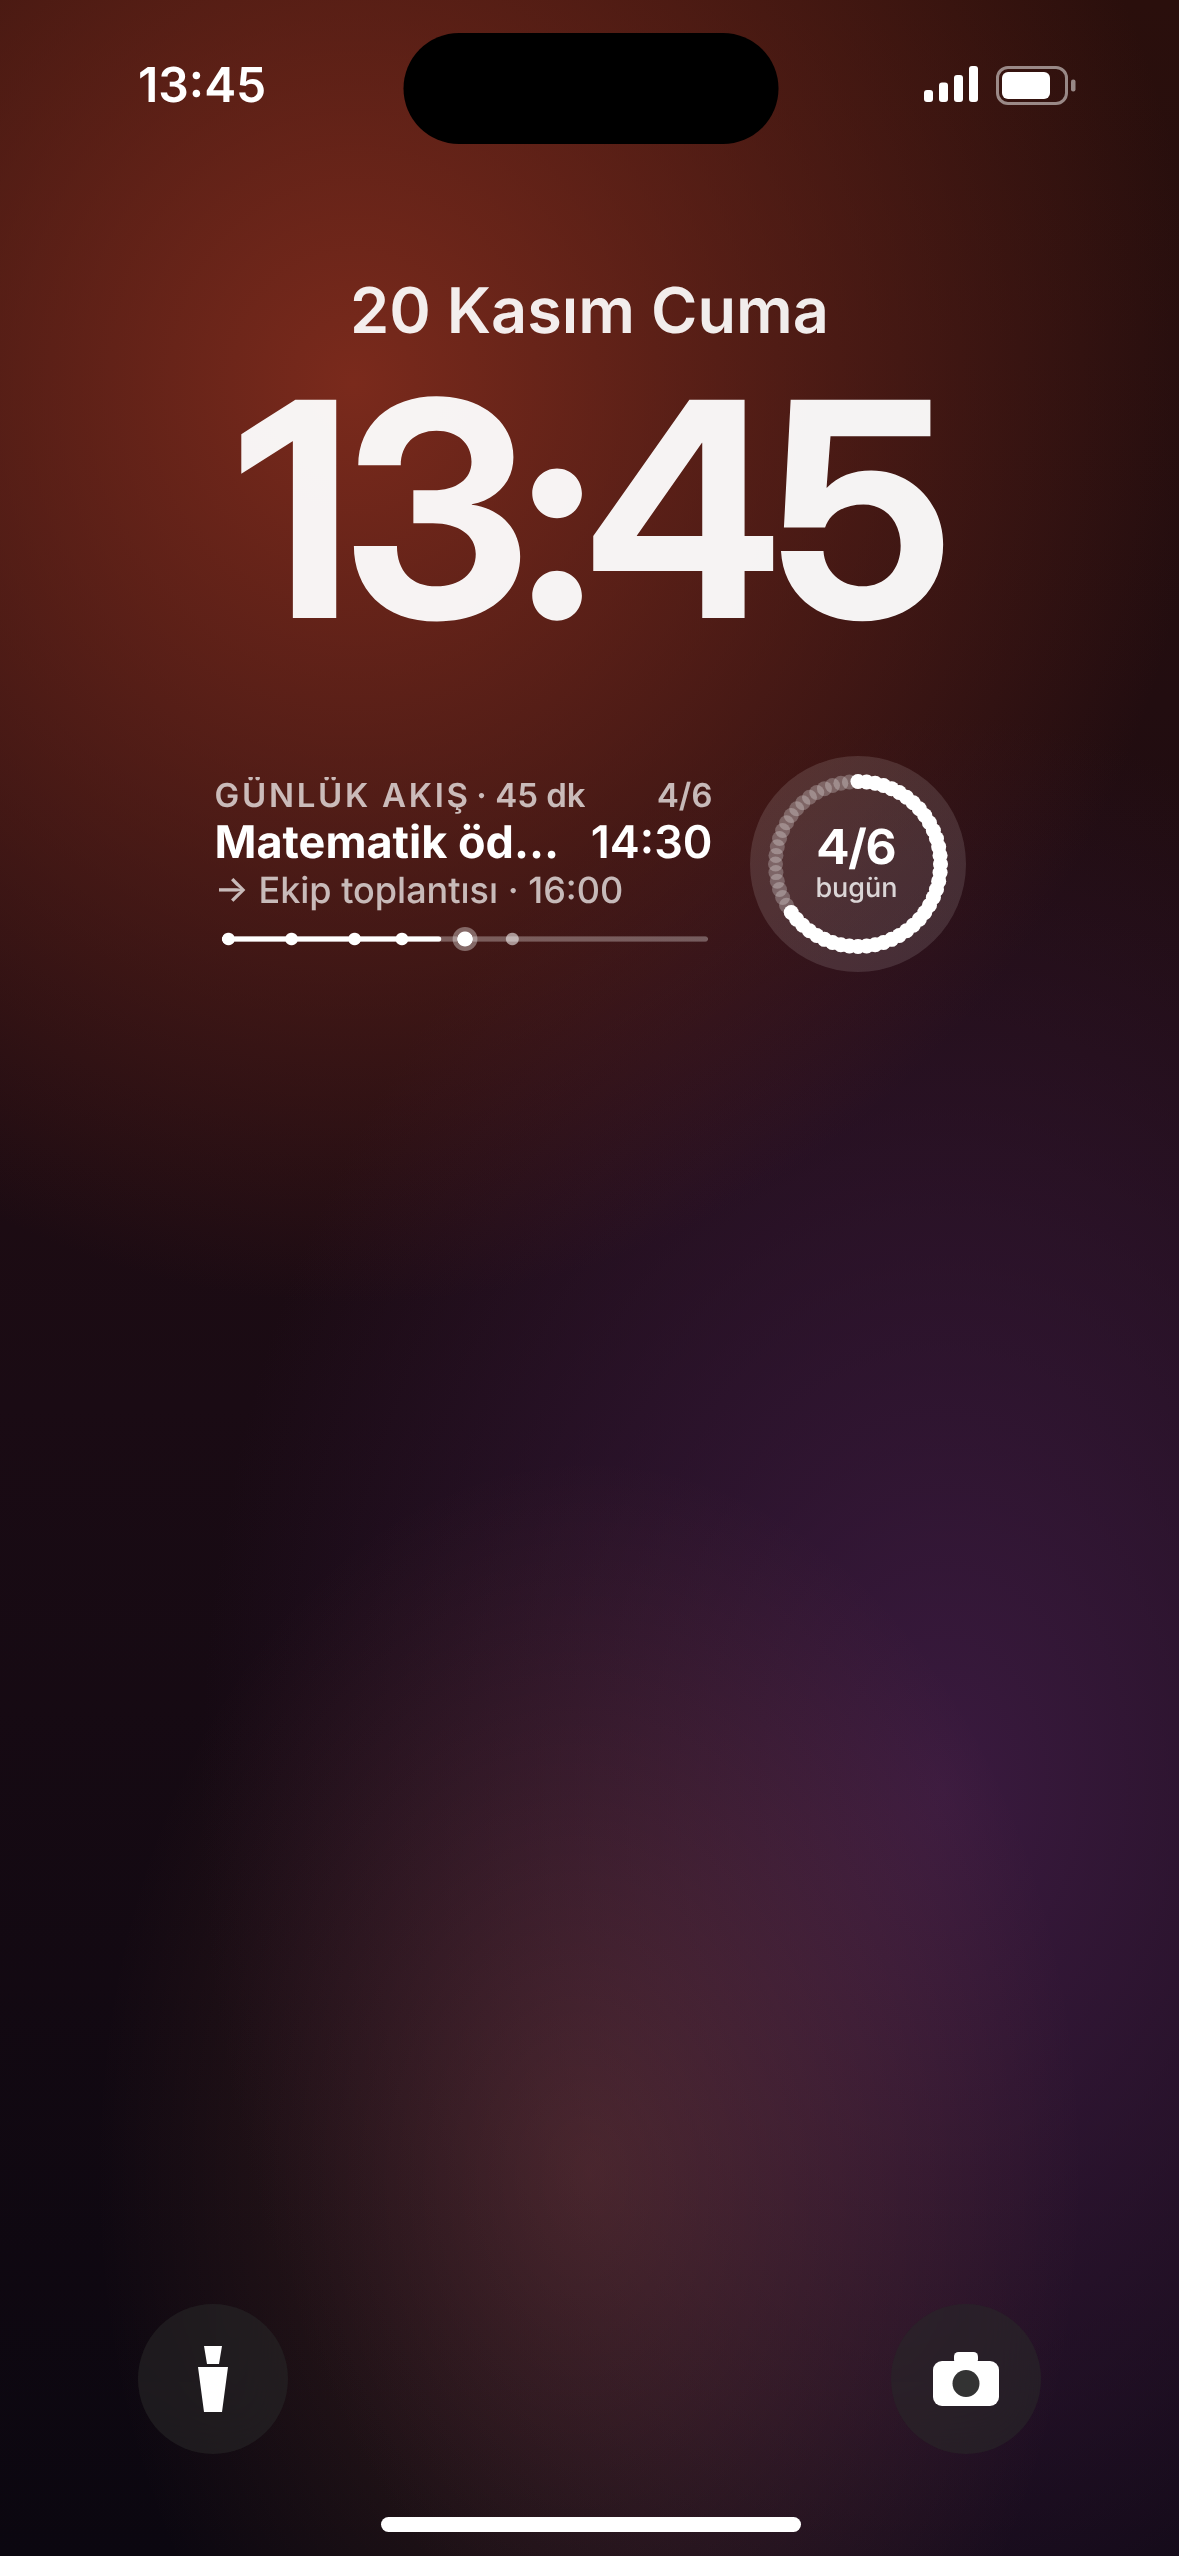
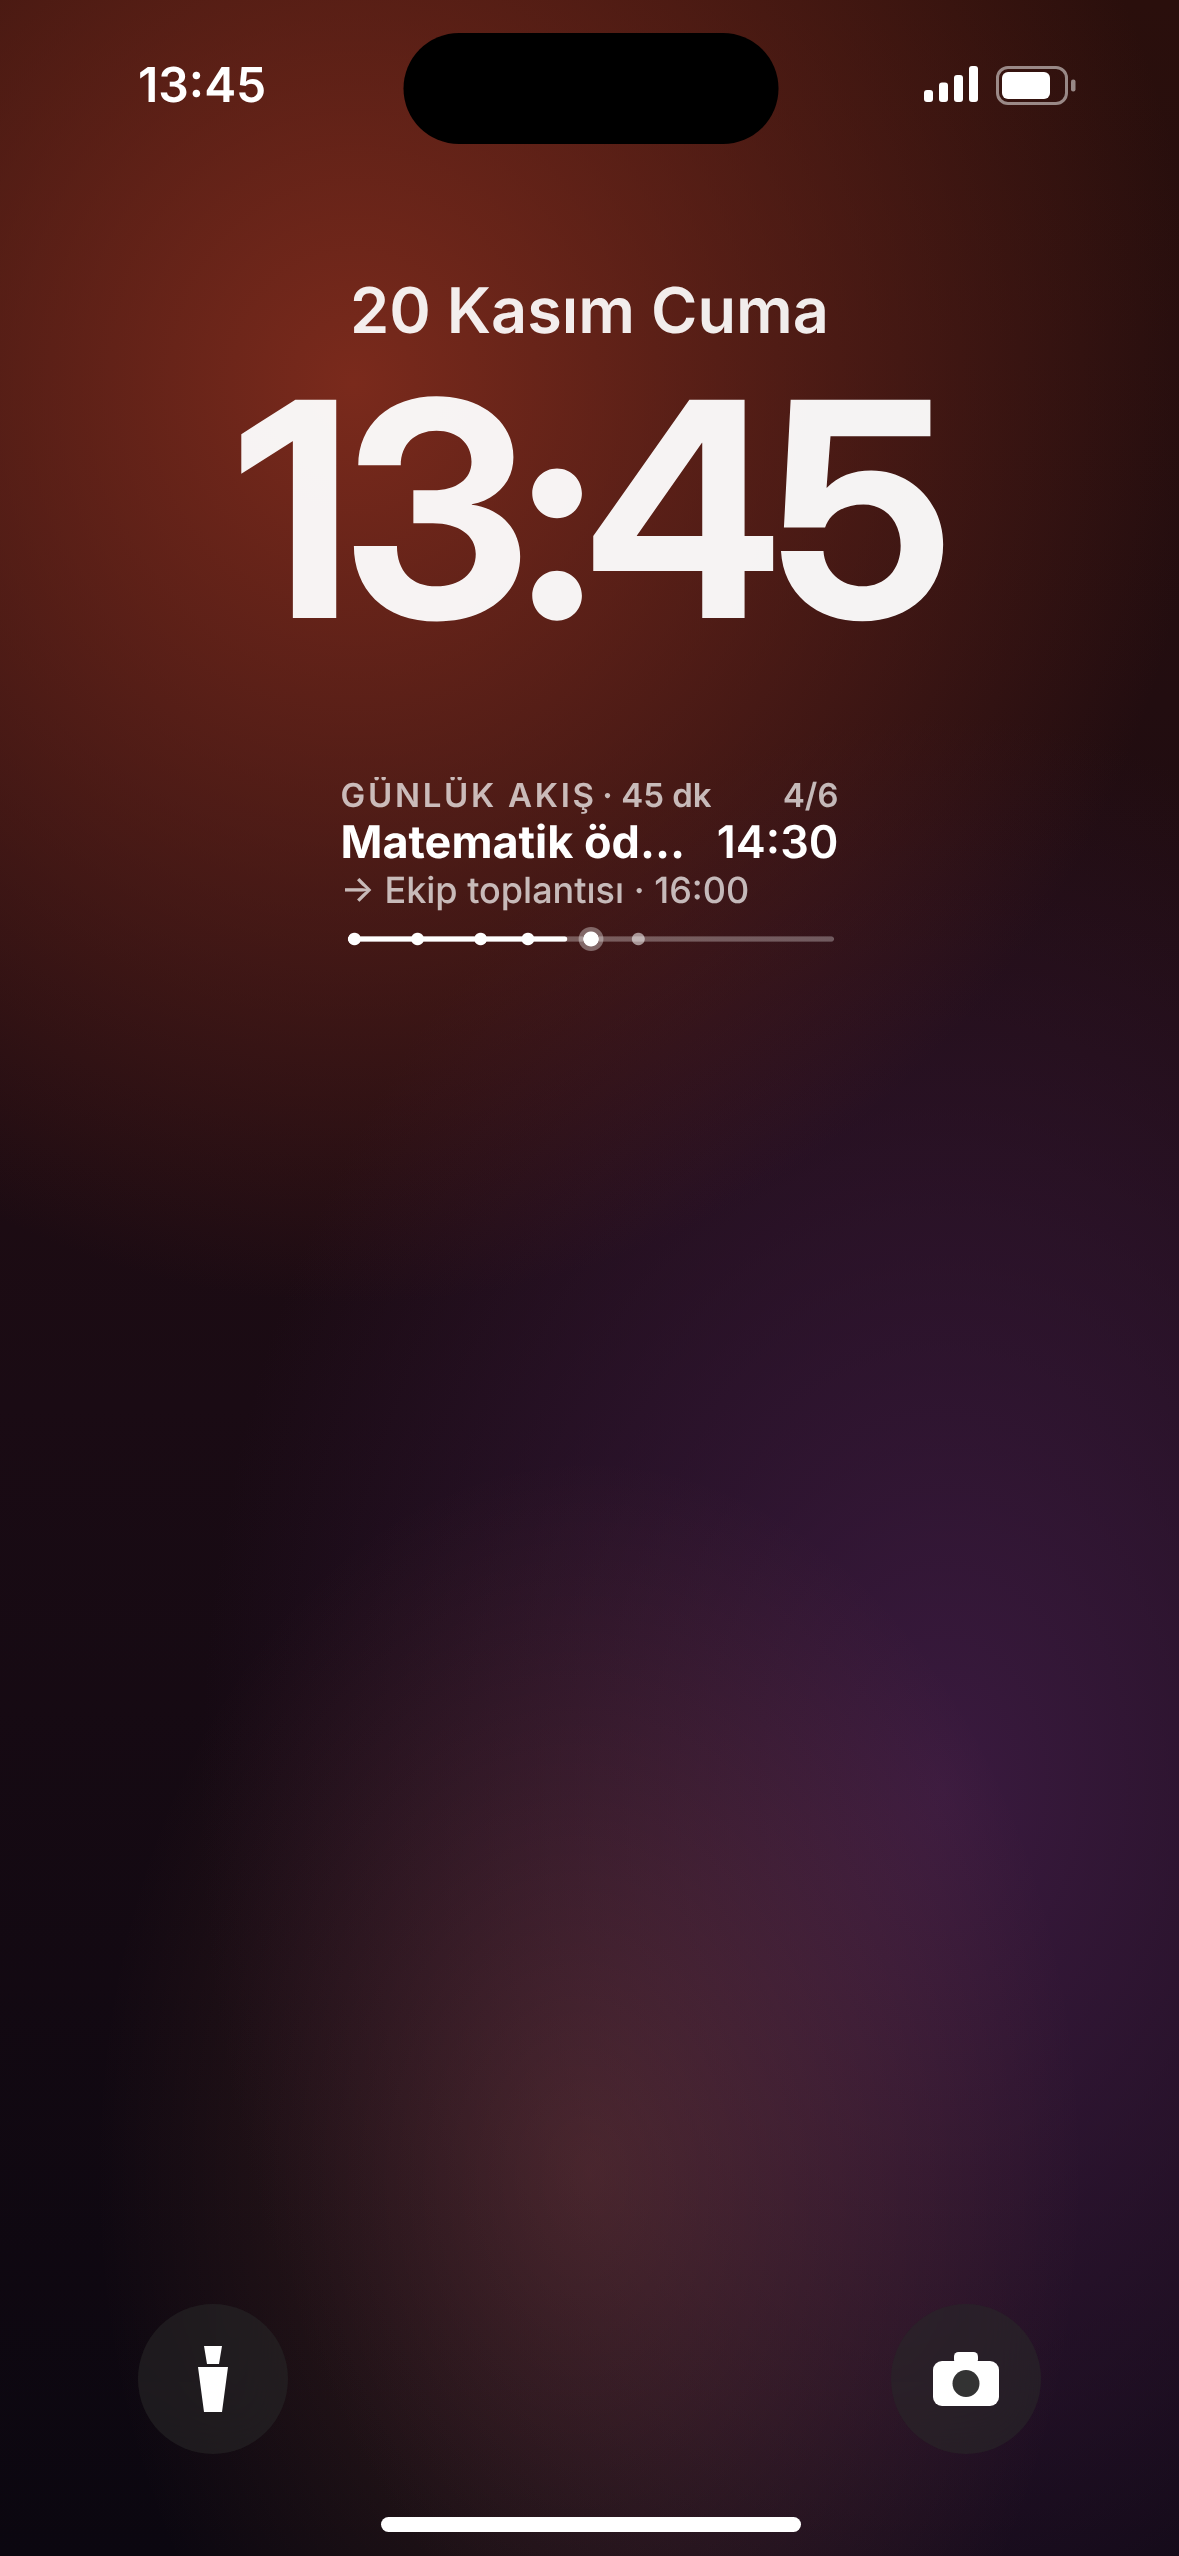
Önizlemeden yuvarlak 4/6 widget'ını kaldır
Claude-Session: https://claude.ai/code/session_01SJPyhCBoX2ig7pwABtBWWp

Changed region(s): [[0.1832, 0.2782, 0.8244, 0.4018]]

diff --git a/widget/KURULUM.md b/widget/KURULUM.md
@@ -44,7 +44,7 @@ App Store'dan ücretsiz **Scriptable** uygulamasını indir.
 4. Eklediğin widget'a bir kez daha dokun, **Script** kısmından **Günlük Akış**'ı seç.
 5. Sağ üstten **Bitti**.
 
-İstersen kilit ekranına yuvarlak olanı da ekleyip aynı betiği seçebilirsin: bugünkü ilerlemeyi (4/6) halka olarak gösterir. Ana ekrana da küçük ya da orta boy Scriptable widget'ı ekleyebilirsin: orada sıradaki birkaç plan renkli listelenir.
+İstersen ana ekrana da küçük ya da orta boy Scriptable widget'ı ekleyebilirsin: orada sıradaki birkaç plan renkli listelenir.
 
 ## İsteğe bağlı ayarlar
 
